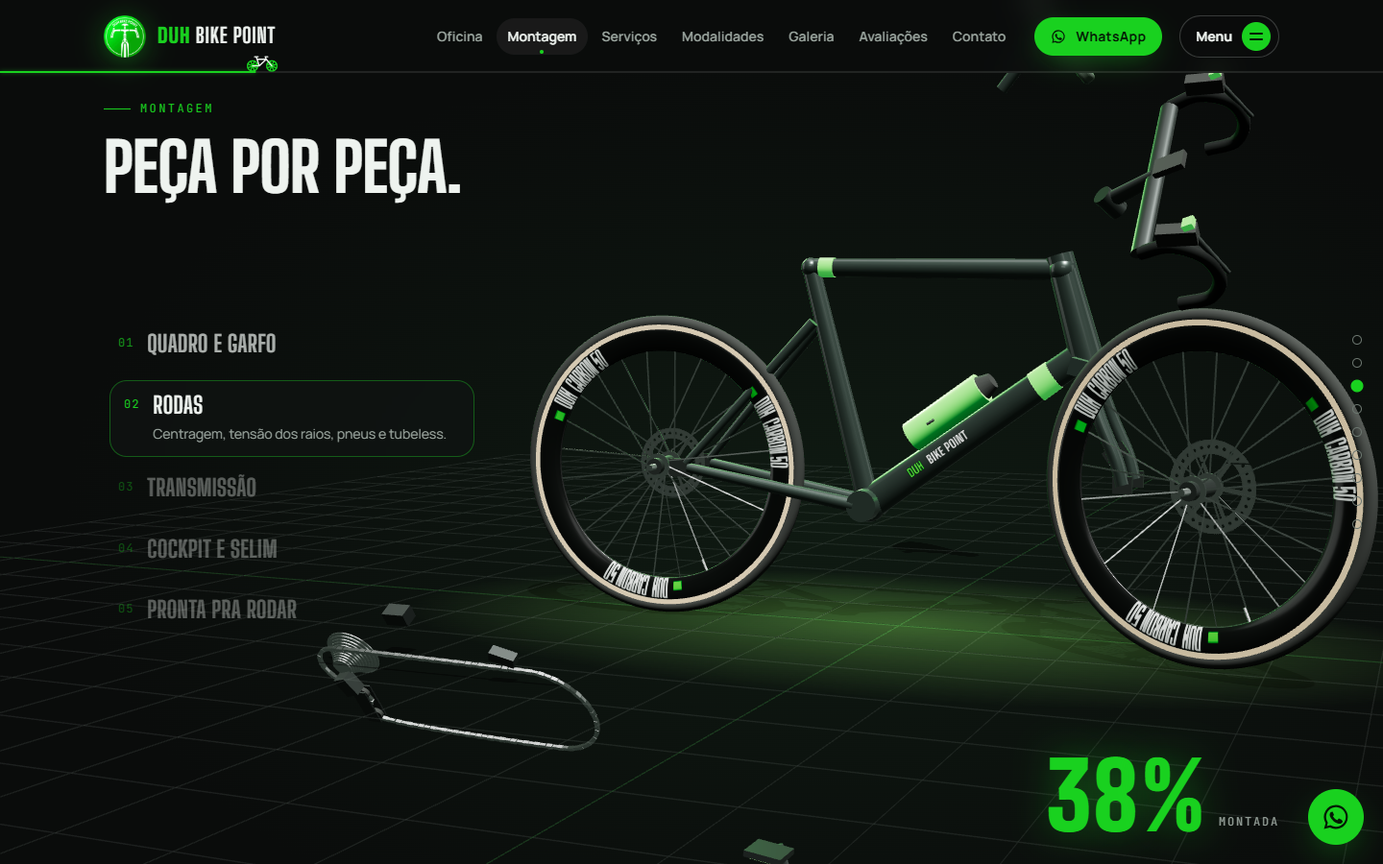
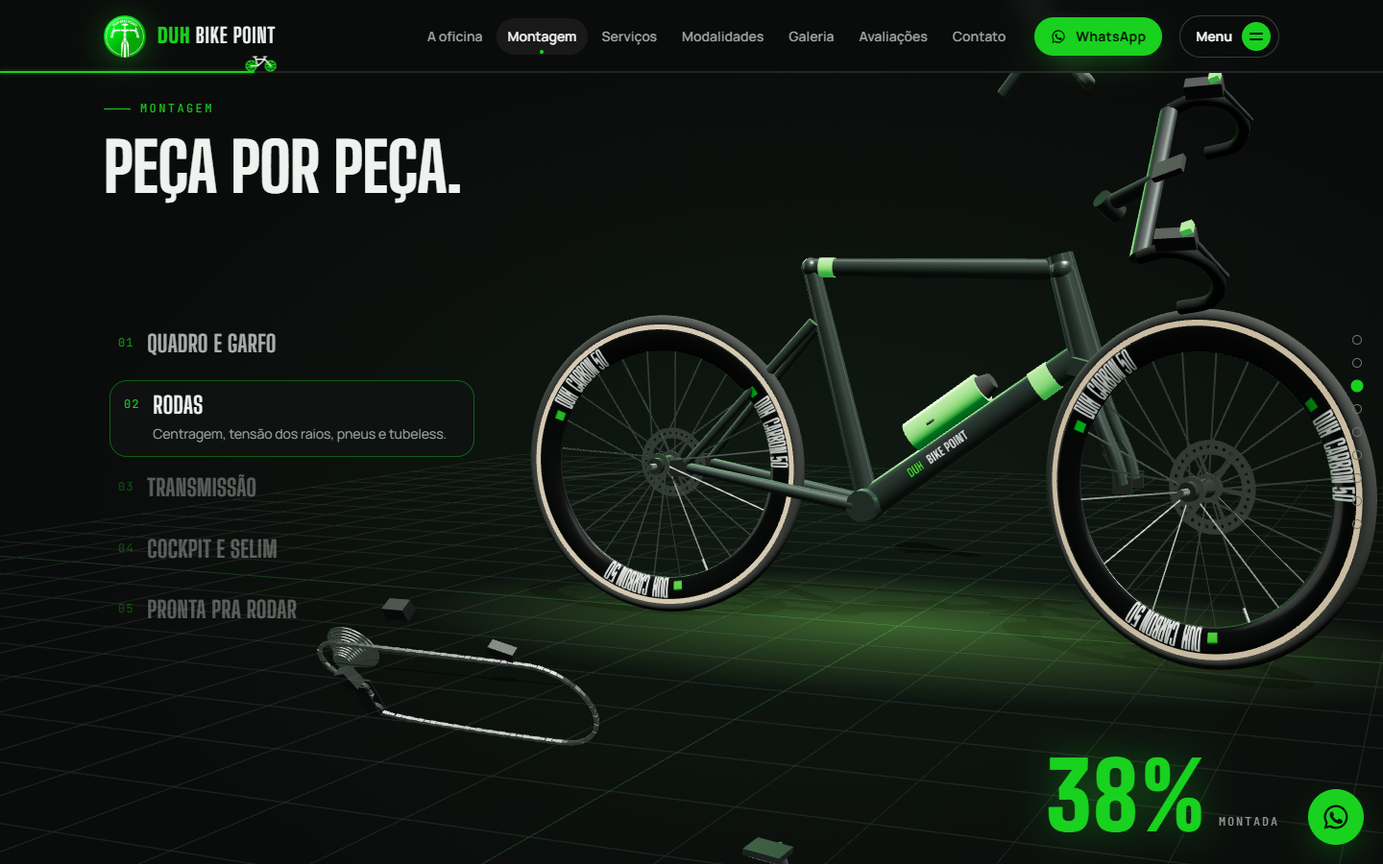
Ajustes de UX e CMS completo
- Pedir orçamento por serviço (WhatsApp com mensagem pronta)
- Seções ocultáveis pelo CMS; nomes do menu, botões, rodapé e mensagem do WhatsApp editáveis
- Mobile: texto do topo legível sobre o 3D, menos rolagem nas seções fixadas
- Acessibilidade: link 'pular para o conteúdo', contraste e áreas de toque
- Prints do README atualizados

diff --git a/index.html b/index.html
@@ -14,10 +14,11 @@
   <link rel="preconnect" href="https://fonts.googleapis.com">
   <link rel="preconnect" href="https://fonts.gstatic.com" crossorigin>
   <link href="https://fonts.googleapis.com/css2?family=Big+Shoulders+Display:wght@500;700;800;900&family=Manrope:wght@400;500;600;700&family=JetBrains+Mono:wght@400;600&display=swap" rel="stylesheet">
-  <link rel="stylesheet" href="css/styles.css?v=18">
+  <link rel="stylesheet" href="css/styles.css?v=19">
   <script>document.documentElement.classList.replace('no-js', 'js');</script>
 </head>
 <body class="is-loading">
+  <a class="skip-link" href="#oficina">Pular para o conteúdo</a>
   <!-- Loader -->
   <div class="loader" id="loader" aria-hidden="true">
     <img src="assets/logo-512.png" alt="" class="loader__logo js-logo">
@@ -35,19 +36,19 @@
         <span class="brand__name"><strong>DUH</strong> BIKE POINT</span>
       </button>
       <nav class="nav" aria-label="Principal">
-        <a href="#oficina">Oficina</a>
-        <a href="#bike">Montagem</a>
-        <a href="#servicos">Serviços</a>
-        <a href="#modalidades">Modalidades</a>
-        <a href="#galeria">Galeria</a>
-        <a href="#avaliacoes">Avaliações</a>
-        <a href="#contato">Contato</a>
+        <a href="#oficina" data-nav="oficina">Oficina</a>
+        <a href="#bike" data-nav="bike">Montagem</a>
+        <a href="#servicos" data-nav="servicos">Serviços</a>
+        <a href="#modalidades" data-nav="modalidades">Modalidades</a>
+        <a href="#galeria" data-nav="galeria">Galeria</a>
+        <a href="#avaliacoes" data-nav="avaliacoes">Avaliações</a>
+        <a href="#contato" data-nav="contato">Contato</a>
       </nav>
       <a class="btn btn--sm btn--primary header__cta js-wa" href="#" target="_blank" rel="noopener">
-        <svg class="i" viewBox="0 0 24 24" aria-hidden="true"><use href="#i-wa"/></svg><span>WhatsApp</span>
+        <svg class="i" viewBox="0 0 24 24" aria-hidden="true"><use href="#i-wa"/></svg><span data-cms="labels.whatsapp"></span>
       </a>
       <button class="menu-btn" id="menuBtn" type="button" aria-expanded="false" aria-controls="menu">
-        <span class="menu-btn__label">Menu</span>
+        <span class="menu-btn__label" data-cms="labels.menu"></span>
         <span class="menu-btn__icon" aria-hidden="true"><i></i><i></i></span>
       </button>
     </div>
@@ -67,15 +68,15 @@
     <div class="menu__bg" aria-hidden="true"><img src="assets/logo-mark-white.png" alt=""></div>
     <div class="container menu__grid">
       <nav class="menu__nav" aria-label="Seções">
-        <a href="#top"><span class="menu__n">00</span><span class="menu__t">Início</span></a>
-        <a href="#oficina"><span class="menu__n">01</span><span class="menu__t">A oficina</span></a>
-        <a href="#bike"><span class="menu__n">02</span><span class="menu__t">Montagem</span></a>
-        <a href="#servicos"><span class="menu__n">03</span><span class="menu__t">Serviços</span></a>
-        <a href="#modalidades"><span class="menu__n">04</span><span class="menu__t">Modalidades</span></a>
-        <a href="#processo"><span class="menu__n">05</span><span class="menu__t">Como funciona</span></a>
-        <a href="#galeria"><span class="menu__n">06</span><span class="menu__t">Galeria</span></a>
-        <a href="#avaliacoes"><span class="menu__n">07</span><span class="menu__t">Avaliações</span></a>
-        <a href="#contato"><span class="menu__n">08</span><span class="menu__t">Contato</span></a>
+        <a href="#top" data-nav="top"><span class="menu__n">00</span><span class="menu__t">Início</span></a>
+        <a href="#oficina" data-nav="oficina"><span class="menu__n">01</span><span class="menu__t">A oficina</span></a>
+        <a href="#bike" data-nav="bike"><span class="menu__n">02</span><span class="menu__t">Montagem</span></a>
+        <a href="#servicos" data-nav="servicos"><span class="menu__n">03</span><span class="menu__t">Serviços</span></a>
+        <a href="#modalidades" data-nav="modalidades"><span class="menu__n">04</span><span class="menu__t">Modalidades</span></a>
+        <a href="#processo" data-nav="processo"><span class="menu__n">05</span><span class="menu__t">Como funciona</span></a>
+        <a href="#galeria" data-nav="galeria"><span class="menu__n">06</span><span class="menu__t">Galeria</span></a>
+        <a href="#avaliacoes" data-nav="avaliacoes"><span class="menu__n">07</span><span class="menu__t">Avaliações</span></a>
+        <a href="#contato" data-nav="contato"><span class="menu__n">08</span><span class="menu__t">Contato</span></a>
       </nav>
       <aside class="menu__aside">
         <p class="kicker" data-cms="sections.menu.kicker"></p>
@@ -83,8 +84,8 @@
         <p class="muted"><span data-cms="brand.address"></span><br><span data-cms="brand.district"></span></p>
         <p class="muted" data-cms="brand.hours"></p>
         <div class="menu__actions">
-          <a class="btn btn--primary js-wa" href="#" target="_blank" rel="noopener"><svg class="i" viewBox="0 0 24 24" aria-hidden="true"><use href="#i-wa"/></svg> WhatsApp</a>
-          <a class="btn btn--ghost js-ig" href="#" target="_blank" rel="noopener"><svg class="i" viewBox="0 0 24 24" aria-hidden="true"><use href="#i-ig"/></svg> Instagram</a>
+          <a class="btn btn--primary js-wa" href="#" target="_blank" rel="noopener"><svg class="i" viewBox="0 0 24 24" aria-hidden="true"><use href="#i-wa"/></svg> <span data-cms="labels.whatsapp"></span></a>
+          <a class="btn btn--ghost js-ig" href="#" target="_blank" rel="noopener"><svg class="i" viewBox="0 0 24 24" aria-hidden="true"><use href="#i-ig"/></svg> <span data-cms="labels.instagram"></span></a>
         </div>
       </aside>
     </div>
@@ -92,15 +93,15 @@
 
   <!-- Navegação lateral por pontos -->
   <nav class="dots" id="dots" aria-label="Navegação por seção">
-    <a href="#top" data-label="Início"></a>
-    <a href="#oficina" data-label="Oficina"></a>
-    <a href="#bike" data-label="Montagem"></a>
-    <a href="#servicos" data-label="Serviços"></a>
-    <a href="#modalidades" data-label="Modalidades"></a>
-    <a href="#processo" data-label="Como funciona"></a>
-    <a href="#galeria" data-label="Galeria"></a>
-    <a href="#avaliacoes" data-label="Avaliações"></a>
-    <a href="#contato" data-label="Contato"></a>
+    <a href="#top" data-nav="top" data-label="Início"></a>
+    <a href="#oficina" data-nav="oficina" data-label="Oficina"></a>
+    <a href="#bike" data-nav="bike" data-label="Montagem"></a>
+    <a href="#servicos" data-nav="servicos" data-label="Serviços"></a>
+    <a href="#modalidades" data-nav="modalidades" data-label="Modalidades"></a>
+    <a href="#processo" data-nav="processo" data-label="Como funciona"></a>
+    <a href="#galeria" data-nav="galeria" data-label="Galeria"></a>
+    <a href="#avaliacoes" data-nav="avaliacoes" data-label="Avaliações"></a>
+    <a href="#contato" data-nav="contato" data-label="Contato"></a>
   </nav>
 
   <main id="top">
@@ -125,11 +126,11 @@
         </div>
         <ul class="hero__chips anim-in" id="heroChips" aria-label="Modalidades"></ul>
       </div>
-      <div class="hero__scroll" aria-hidden="true"><span>role</span><i></i></div>
+      <div class="hero__scroll" aria-hidden="true"><span data-cms="labels.scroll"></span><i></i></div>
     </section>
 
     <!-- MARQUEE -->
-    <section class="marquee" aria-label="Especialidades">
+    <section class="marquee" data-block="marquee" aria-label="Especialidades">
       <div class="marquee__track" id="marquee">
         <div class="marquee__row" id="marqueeRow"></div>
       </div>
@@ -173,7 +174,7 @@
             <h2 class="h2 bike__title" data-cms="sections.bike.title"></h2>
           </div>
           <ol class="bike__steps" id="bikeSteps"></ol>
-          <div class="bike__meter" aria-hidden="true"><span id="bikePct">0</span>%<small>montada</small></div>
+          <div class="bike__meter" aria-hidden="true"><span id="bikePct">0</span>%<small data-cms="labels.mounted"></small></div>
         </div>
       </div>
     </section>
@@ -245,10 +246,10 @@
           <div class="rating-card reveal" data-tilt="8">
             <svg class="rating-card__g" viewBox="0 0 48 48" aria-hidden="true"><path fill="#FFC107" d="M43.6 20.5H42V20H24v8h11.3C33.7 32.7 29.2 36 24 36c-6.6 0-12-5.4-12-12s5.4-12 12-12c3.1 0 5.8 1.2 7.9 3l5.7-5.7C34 6.1 29.3 4 24 4 12.9 4 4 12.9 4 24s8.9 20 20 20 20-8.9 20-20c0-1.3-.1-2.6-.4-3.5z"/><path fill="#FF3D00" d="m6.3 14.7 6.6 4.8C14.7 15.1 19 12 24 12c3.1 0 5.8 1.2 7.9 3l5.7-5.7C34 6.1 29.3 4 24 4 16.3 4 9.7 8.3 6.3 14.7z"/><path fill="#4CAF50" d="M24 44c5.2 0 9.9-2 13.4-5.2l-6.2-5.2C29.2 35.1 26.7 36 24 36c-5.2 0-9.6-3.3-11.3-8l-6.5 5C9.5 39.6 16.2 44 24 44z"/><path fill="#1976D2" d="M43.6 20.5H42V20H24v8h11.3c-.8 2.2-2.2 4.2-4.1 5.6l6.2 5.2C37 39.2 44 34 44 24c0-1.3-.1-2.6-.4-3.5z"/></svg>
             <div class="rating-card__score"><strong data-cms="reviews.rating"></strong><span class="stars" id="ratingStars" aria-hidden="true"></span></div>
-            <p class="rating-card__count"><span data-cms="reviews.count"></span> avaliações no Google</p>
+            <p class="rating-card__count"><span data-cms="reviews.count"></span> <span data-cms="labels.reviewsCount"></span></p>
             <div class="rating-card__actions">
-              <a class="btn btn--primary btn--sm js-reviews" href="#" target="_blank" rel="noopener">Ver no Google</a>
-              <a class="btn btn--ghost btn--sm js-review-write" href="#" target="_blank" rel="noopener">Avaliar</a>
+              <a class="btn btn--primary btn--sm js-reviews" href="#" target="_blank" rel="noopener" data-cms="labels.seeGoogle"></a>
+              <a class="btn btn--ghost btn--sm js-review-write" href="#" target="_blank" rel="noopener" data-cms="labels.rateGoogle"></a>
             </div>
           </div>
         </header>
@@ -272,13 +273,13 @@
             <h2 class="h2" data-cms="sections.contact.title"></h2>
             <ul class="contact__list">
               <li><svg class="i" viewBox="0 0 24 24"><use href="#i-pin"/></svg><div><strong data-cms="brand.address"></strong><span data-cms="brand.district"></span></div></li>
-              <li><svg class="i" viewBox="0 0 24 24"><use href="#i-wa"/></svg><div><a class="js-wa link" href="#" target="_blank" rel="noopener"><strong data-cms="brand.phoneLabel"></strong></a><span>WhatsApp</span></div></li>
-              <li><svg class="i" viewBox="0 0 24 24"><use href="#i-clock"/></svg><div><strong>Horário</strong><span data-cms="brand.hours"></span></div></li>
-              <li><svg class="i" viewBox="0 0 24 24"><use href="#i-ig"/></svg><div><a class="js-ig link" href="#" target="_blank" rel="noopener"><strong>@<span data-cms="brand.instagram"></span></strong></a><span>Instagram</span></div></li>
+              <li><svg class="i" viewBox="0 0 24 24"><use href="#i-wa"/></svg><div><a class="js-wa link" href="#" target="_blank" rel="noopener"><strong data-cms="brand.phoneLabel"></strong></a><span data-cms="labels.whatsapp"></span></div></li>
+              <li><svg class="i" viewBox="0 0 24 24"><use href="#i-clock"/></svg><div><strong data-cms="labels.hours"></strong><span data-cms="brand.hours"></span></div></li>
+              <li><svg class="i" viewBox="0 0 24 24"><use href="#i-ig"/></svg><div><a class="js-ig link" href="#" target="_blank" rel="noopener"><strong>@<span data-cms="brand.instagram"></span></strong></a><span data-cms="labels.instagram"></span></div></li>
             </ul>
             <div class="contact__actions">
-              <a class="btn btn--primary js-wa" href="#" target="_blank" rel="noopener">Chamar no WhatsApp</a>
-              <a class="btn btn--ghost js-maps" href="#" target="_blank" rel="noopener">Abrir no mapa</a>
+              <a class="btn btn--primary js-wa" href="#" target="_blank" rel="noopener" data-cms="labels.contactWhatsapp"></a>
+              <a class="btn btn--ghost js-maps" href="#" target="_blank" rel="noopener" data-cms="labels.contactMap"></a>
             </div>
           </div>
         </div>
@@ -308,9 +309,9 @@
         <div><strong data-cms="brand.name"></strong><span data-cms="brand.tagline"></span></div>
       </div>
       <nav class="footer__nav" aria-label="Rodapé">
-        <a href="#oficina">Oficina</a><a href="#servicos">Serviços</a><a href="#galeria">Galeria</a><a href="#avaliacoes">Avaliações</a><a href="#contato">Contato</a>
+        <a href="#oficina" data-nav="oficina">Oficina</a><a href="#servicos" data-nav="servicos">Serviços</a><a href="#galeria" data-nav="galeria">Galeria</a><a href="#avaliacoes" data-nav="avaliacoes">Avaliações</a><a href="#contato" data-nav="contato">Contato</a>
       </nav>
-      <p class="mono footer__copy">© <span id="year"></span> Duh Bike Point · São Paulo</p>
+      <p class="mono footer__copy">© <span id="year"></span> <span data-cms="footer.text"></span></p>
     </div>
   </footer>
 
@@ -385,15 +386,15 @@
   <script src="https://cdnjs.cloudflare.com/ajax/libs/gsap/3.12.5/ScrollTrigger.min.js"></script>
   <script src="https://unpkg.com/lenis@1.1.13/dist/lenis.min.js"></script>
   <script src="https://cdn.jsdelivr.net/npm/@supabase/supabase-js@2.45.4/dist/umd/supabase.min.js"></script>
-  <script src="js/config.js?v=18"></script>
-  <script src="js/content.js?v=18"></script>
-  <script src="js/store.js?v=18"></script>
-  <script src="js/render.js?v=18"></script>
-  <script src="js/logo-data.js?v=18"></script>
-  <script src="js/hero3d.js?v=18"></script>
-  <script src="js/bike3d.js?v=18"></script>
-  <script src="js/effects.js?v=18"></script>
-  <script src="js/cms.js?v=18"></script>
-  <script src="js/app.js?v=18"></script>
+  <script src="js/config.js?v=19"></script>
+  <script src="js/content.js?v=19"></script>
+  <script src="js/store.js?v=19"></script>
+  <script src="js/render.js?v=19"></script>
+  <script src="js/logo-data.js?v=19"></script>
+  <script src="js/hero3d.js?v=19"></script>
+  <script src="js/bike3d.js?v=19"></script>
+  <script src="js/effects.js?v=19"></script>
+  <script src="js/cms.js?v=19"></script>
+  <script src="js/app.js?v=19"></script>
 </body>
 </html>

diff --git a/js/cms.js b/js/cms.js
@@ -164,6 +164,20 @@ window.CMS = (function () {
       ${field('Menu — rótulo do contato', 'sections.menu.kicker')}${field('Botão final', 'sections.cta.button')}
       <h4 style="margin-top:24px">Etapas da montagem (bike 3D)</h4><p class="hint">São 5 etapas, ligadas às fases da animação.</p>
       ${(Store.get('sections.bike.steps') || []).map((st, i) => `<div class="cms-item"><span class="mono">Etapa ${i + 1}</span>${field('Título', `sections.bike.steps.${i}.title`)}${field('Texto', `sections.bike.steps.${i}.text`, 'textarea')}</div>`).join('')}
+      <h4 style="margin-top:24px">Mostrar / ocultar seções</h4><p class="hint">Seções ocultas somem do site e do menu.</p>
+      ${[['marquee', 'Faixa verde'], ['oficina', 'A oficina'], ['bike', 'Montagem 3D'], ['servicos', 'Serviços'], ['modalidades', 'Modalidades'], ['processo', 'Como funciona'], ['galeria', 'Galeria'], ['avaliacoes', 'Avaliações'], ['contato', 'Contato']]
+        .map(([k, l]) => `<label class="cms-check"><input type="checkbox" data-path="visibility.${k}" ${Store.get('visibility.' + k) === false ? '' : 'checked'}> ${l}</label>`).join('')}
+      <h4 style="margin-top:24px">Nomes no menu</h4>
+      ${Object.keys(Store.get('labels.nav') || {}).map((k) => field(k === 'top' ? 'Início' : (Store.get('labels.nav.' + k) || k), 'labels.nav.' + k)).join('')}
+      <h4 style="margin-top:24px">Botões e rótulos</h4>
+      ${field('Mensagem padrão do WhatsApp', 'brand.waMessage', 'textarea')}
+      ${field('Botão dos serviços', 'labels.serviceCta')}${field('Mensagem do orçamento (antes do nome do serviço)', 'labels.serviceMessage')}
+      ${field('Botão WhatsApp', 'labels.whatsapp')}${field('Rótulo Instagram', 'labels.instagram')}
+      ${field('Botão Menu', 'labels.menu')}${field('Botão Fechar', 'labels.close')}
+      ${field('Dica de rolagem', 'labels.scroll')}${field('Contador da bike', 'labels.mounted')}
+      ${field('Botão “Ver no Google”', 'labels.seeGoogle')}${field('Botão “Avaliar”', 'labels.rateGoogle')}${field('Texto após o total de avaliações', 'labels.reviewsCount')}
+      ${field('Rótulo do horário', 'labels.hours')}${field('Contato — botão WhatsApp', 'labels.contactWhatsapp')}${field('Contato — botão mapa', 'labels.contactMap')}
+      ${field('Rodapé', 'footer.text')}
       <h4 style="margin-top:24px">Faixa verde (letreiro)</h4>${simpleList('marquee', 'item')}
       <h4 style="margin-top:24px">Etiquetas do topo</h4>${simpleList('chips', 'etiqueta')}`,
     servicos: () => `<h4>Serviços</h4><p class="hint">Cards 3D da seção Serviços.</p>${listEditor('services', [['Ícone', 'icon', 'icon'], ['Título', 'title'], ['Descrição', 'text', 'textarea']], 'serviço')}`,
@@ -314,8 +328,8 @@ window.CMS = (function () {
     const B = body();
     B.addEventListener('input', (e) => {
       const p = e.target.dataset && e.target.dataset.path; if (!p) return;
-      Store.set(p, e.target.value);
-      const isList = /^(services|gallery|disciplines|process|reviews\.items|marquee|chips|sections\.bike\.steps)\./.test(p) || /title$|kicker$/.test(p) || p.startsWith('seo.');
+      Store.set(p, e.target.type === 'checkbox' ? e.target.checked : e.target.value);
+      const isList = /^(services|gallery|disciplines|process|reviews\.items|marquee|chips|sections\.bike\.steps)\./.test(p) || /title$|kicker$/.test(p) || /^(seo|visibility|labels)\./.test(p) || p === 'brand.waMessage';
       markDirty(isList);
       if (!isList) { $$(`[data-cms="${p}"]`).forEach((el) => (el.textContent = e.target.value)); Render.links(); }
     });

diff --git a/js/render.js b/js/render.js
@@ -26,7 +26,7 @@
 
   function waLink(msg) {
     const n = (Store.get('brand.whatsapp') || '').replace(/\D/g, '');
-    return `https://wa.me/${n}?text=${encodeURIComponent(msg || 'Olá! Vim pelo site da Duh Bike Point e gostaria de agendar um serviço.')}`;
+    return `https://wa.me/${n}?text=${encodeURIComponent(msg || Store.get('brand.waMessage') || 'Olá!')}`;
   }
 
   function renderBindings() {
@@ -54,6 +54,7 @@
         <div class="svc__icon">${icon(s.icon)}</div>
         <h3>${esc(s.title)}</h3>
         <p>${esc(s.text)}</p>
+        <a class="svc__cta" href="${waLink((Store.get('labels.serviceMessage') || '') + s.title)}" target="_blank" rel="noopener">${esc(Store.get('labels.serviceCta') || 'Pedir orçamento')} <svg viewBox="0 0 24 24" aria-hidden="true"><path d="M5 12h14M13 6l6 6-6 6" fill="none" stroke="currentColor" stroke-width="2" stroke-linecap="round" stroke-linejoin="round"/></svg></a>
         <span class="svc__glare"></span>
       </article></div>`).join('');
   }
@@ -153,11 +154,29 @@
     }
   }
 
+  // Rótulos do menu/navegação e seções ocultas pelo CMS
+  function renderNav() {
+    const labels = Store.get('labels.nav') || {}, vis = Store.get('visibility') || {};
+    Object.keys(vis).forEach((id) => {
+      if (vis[id] !== false) return;
+      const sec = document.getElementById(id) || $(`[data-block="${id}"]`);
+      if (sec) sec.remove();
+      $$(`a[data-nav="${id}"]`).forEach((a) => (a.closest('.footer__nav, .nav, .menu__nav, .dots') ? a.remove() : null));
+    });
+    $$('a[data-nav]').forEach((a) => {
+      const t = labels[a.dataset.nav]; if (!t) return;
+      if (a.closest('.dots')) { a.dataset.label = t; a.setAttribute('aria-label', t); return; }
+      const mt = a.querySelector('.menu__t'); if (mt) { mt.textContent = t; return; }
+      if (!a.children.length && (a.closest('.nav') || a.closest('.footer__nav'))) a.textContent = t;
+    });
+    $$('.menu__nav a').forEach((a, i) => { const n = a.querySelector('.menu__n'); if (n) n.textContent = String(i).padStart(2, '0'); });
+  }
+
   function renderAll() {
-    renderLists(); renderMeta();
+    renderNav(); renderLists(); renderMeta();
     renderBindings(); renderLinks(); renderServices(); renderDisciplines(); renderProcess(); renderGallery(); renderReviews();
     const y = $('#year'); if (y) y.textContent = new Date().getFullYear();
   }
 
-  window.Render = { all: renderAll, bindings: renderBindings, links: renderLinks, meta: renderMeta, reviews: renderReviews, ICONS, esc };
+  window.Render = { waLink, all: renderAll, bindings: renderBindings, links: renderLinks, meta: renderMeta, reviews: renderReviews, ICONS, esc };
 })();

diff --git a/css/styles.css b/css/styles.css
@@ -613,3 +613,34 @@ body.menu-open .wa-float, body.lb-open .wa-float, body:has(.cms:not([hidden])) .
   *, *::before, *::after { animation-duration: .01ms !important; animation-iteration-count: 1 !important; transition-duration: .01ms !important; transition-delay: 0s !important; }
   .grain { display: none; }
 }
+
+/* ================= Ajustes de UX ================= */
+.skip-link { position: fixed; left: 16px; top: -60px; z-index: 900; background: var(--accent); color: var(--accent-ink); padding: 10px 16px; border-radius: var(--r-pill); font-weight: 700; transition: top .2s; }
+.skip-link:focus { top: 12px; }
+.svc__num { color: var(--ink-300); }
+.svc__cta { position: relative; z-index: 1; display: inline-flex; align-items: center; gap: 8px; margin-top: 18px; min-height: 44px; font-weight: 700; font-size: var(--fs-sm); color: var(--accent); transform: translateZ(20px); }
+.svc__cta svg { width: 16px; height: 16px; transition: transform .3s var(--ease-out); }
+.svc__cta:hover svg { transform: translateX(4px); }
+.svc__cta::after { content: ""; position: absolute; inset: -8px 0; }
+.cms-check { display: flex; align-items: center; gap: 10px; min-height: 40px; font-weight: 600; cursor: pointer; }
+.cms-check input { width: 20px; height: 20px; accent-color: var(--accent); }
+/* botão flutuante não compete com o CTA do topo */
+body.at-hero .wa-float { opacity: 0; pointer-events: none; transform: scale(.6); }
+/* área de toque maior nas bolinhas do carrossel */
+.carousel__dots button { position: relative; }
+.carousel__dots button::after { content: ""; position: absolute; inset: -17px -8px; }
+/* avaliações sem depoimentos: seção compacta */
+.reviews:has(.reviews__rail[hidden]) { padding-bottom: clamp(48px, 8vw, 96px); }
+@media (max-width: 860px) {
+  /* legibilidade do texto sobre a cena 3D no celular */
+  .hero__content::before { content: ""; position: absolute; inset: -40px -16px -20px; z-index: -1; background: linear-gradient(180deg, rgba(10,12,11,0) 0%, rgba(10,12,11,.75) 22%, rgba(10,12,11,.9) 100%); pointer-events: none; }
+  .hero__scroll { display: none; }
+  /* menos rolagem nas seções fixadas */
+  .bike { height: 360vh; }
+  .disciplines { height: 260vh; }
+  .process { height: 240vh; }
+}
+@media (max-width: 640px) {
+  .bike__steps { padding-right: 64px; }
+  .carousel__controls { gap: 12px; }
+}

diff --git a/js/effects.js b/js/effects.js
@@ -54,6 +54,7 @@ window.Effects = (function () {
       rb.style.transform = `translateX(${p * (innerWidth - 34) - 4}px)`;
       const rot = `rotate(${y * 0.6}deg)`; w1.style.transform = rot; w2.style.transform = rot;
       dots.classList.toggle('is-visible', y > innerHeight * 0.6);
+      document.body.classList.toggle('at-hero', y < innerHeight * 0.55);
     }
     addEventListener('scroll', () => { if (!ticking) { ticking = true; requestAnimationFrame(update); } }, { passive: true });
     addEventListener('resize', update); update();
@@ -72,13 +73,13 @@ window.Effects = (function () {
   function openMenu() {
     const m = menu(); m.hidden = false; $$('.menu__nav a', m).forEach((a, i) => a.style.setProperty('--i', i));
     requestAnimationFrame(() => requestAnimationFrame(() => m.classList.add('is-open')));
-    btn().setAttribute('aria-expanded', 'true'); btn().querySelector('.menu-btn__label').textContent = 'Fechar';
+    btn().setAttribute('aria-expanded', 'true'); btn().querySelector('.menu-btn__label').textContent = Store.get('labels.close') || 'Fechar';
     document.body.classList.add('menu-open'); lenis && lenis.stop();
     setTimeout(() => { const a = $('.menu__nav a', m); a && a.focus({ preventScroll: true }); }, 300);
   }
   function closeMenu(instant) {
     const m = menu(); if (!m || m.hidden) return;
-    m.classList.remove('is-open'); btn().setAttribute('aria-expanded', 'false'); btn().querySelector('.menu-btn__label').textContent = 'Menu';
+    m.classList.remove('is-open'); btn().setAttribute('aria-expanded', 'false'); btn().querySelector('.menu-btn__label').textContent = Store.get('labels.menu') || 'Menu';
     document.body.classList.remove('menu-open'); lenis && lenis.start();
     setTimeout(() => { if (!m.classList.contains('is-open')) m.hidden = true; }, instant ? 0 : 700);
   }

diff --git a/js/content.js b/js/content.js
@@ -9,12 +9,32 @@ window.DEFAULT_CONTENT = {
     "address": "Rua Rosa Marchetti, 48",
     "district": "Bairro do Limão — São Paulo, SP",
     "hours": "Atendimento com hora marcada — chame no WhatsApp",
-    "logo": "assets/logo-512.png"
+    "logo": "assets/logo-512.png",
+    "waMessage": "Olá! Vim pelo site da Duh Bike Point e gostaria de agendar um serviço."
   },
   "seo": {
     "title": "Duh Bike Point | Oficina de bicicletas em São Paulo",
     "description": "Oficina de bicicletas no bairro do Limão, São Paulo. Manutenção especializada em Road, MTB e TT. Performance e segurança."
   },
+  "labels": {
+    "nav": { "top": "Início", "oficina": "A oficina", "bike": "Montagem", "servicos": "Serviços", "modalidades": "Modalidades", "processo": "Como funciona", "galeria": "Galeria", "avaliacoes": "Avaliações", "contato": "Contato" },
+    "whatsapp": "WhatsApp",
+    "instagram": "Instagram",
+    "menu": "Menu",
+    "close": "Fechar",
+    "scroll": "role",
+    "mounted": "montada",
+    "seeGoogle": "Ver no Google",
+    "rateGoogle": "Avaliar",
+    "reviewsCount": "avaliações no Google",
+    "hours": "Horário",
+    "contactWhatsapp": "Chamar no WhatsApp",
+    "contactMap": "Abrir no mapa",
+    "serviceCta": "Pedir orçamento",
+    "serviceMessage": "Olá! Gostaria de um orçamento de: "
+  },
+  "visibility": { "marquee": true, "oficina": true, "bike": true, "servicos": true, "modalidades": true, "processo": true, "galeria": true, "avaliacoes": true, "contato": true },
+  "footer": { "text": "Duh Bike Point · São Paulo" },
   "marquee": ["Manutenção especializada", "Road", "MTB", "TT", "Performance & segurança"],
   "chips": ["Road", "MTB", "TT"],
   "sections": {

diff --git a/README.md b/README.md
@@ -12,6 +12,7 @@ Site estático (HTML, CSS e JavaScript, sem etapa de build), com efeitos 3D, ani
 
 - **Hero 3D:** o logo vira uma moeda 3D dentro de uma roda de bike, com coroas e partículas. Reage ao mouse e ao scroll.
 - **Bike 3D montada pelo scroll:** uma speed de carbono que se monta peça por peça (quadro, rodas, transmissão, cockpit e selim). Tem reflexos de estúdio, sombras e contador de "% montada".
+- **Serviços com orçamento em 1 toque:** cada card abre o WhatsApp com a mensagem pronta para aquele serviço.
 - **Modalidades em pilha 3D:** cards de Road, MTB e TT que trocam conforme a rolagem. Cada card aceita uma foto de fundo.
 - **Como funciona:** etapas do atendimento em rolagem horizontal, com barra de progresso.
 - **Galeria em carrossel 3D:** arraste, setas, teclado e troca automática. Tocar numa foto abre a imagem em tela cheia.
@@ -87,7 +88,8 @@ docs/screenshots/     prints deste README
 
 O site tem um **CMS secreto**, sem link visível na página. Pelo CMS dá para:
 
-- editar todos os textos e títulos das seções, os dados de contato e o SEO;
+- editar todos os textos e títulos das seções, os nomes do menu, os rótulos dos botões, a mensagem padrão do WhatsApp, os dados de contato, o rodapé e o SEO;
+- mostrar ou ocultar seções inteiras (somem do site e do menu);
 - trocar o logo;
 - adicionar, editar, reordenar e remover serviços, modalidades (com foto de fundo), etapas, fotos da galeria e avaliações;
 - exportar e importar um backup em JSON.
